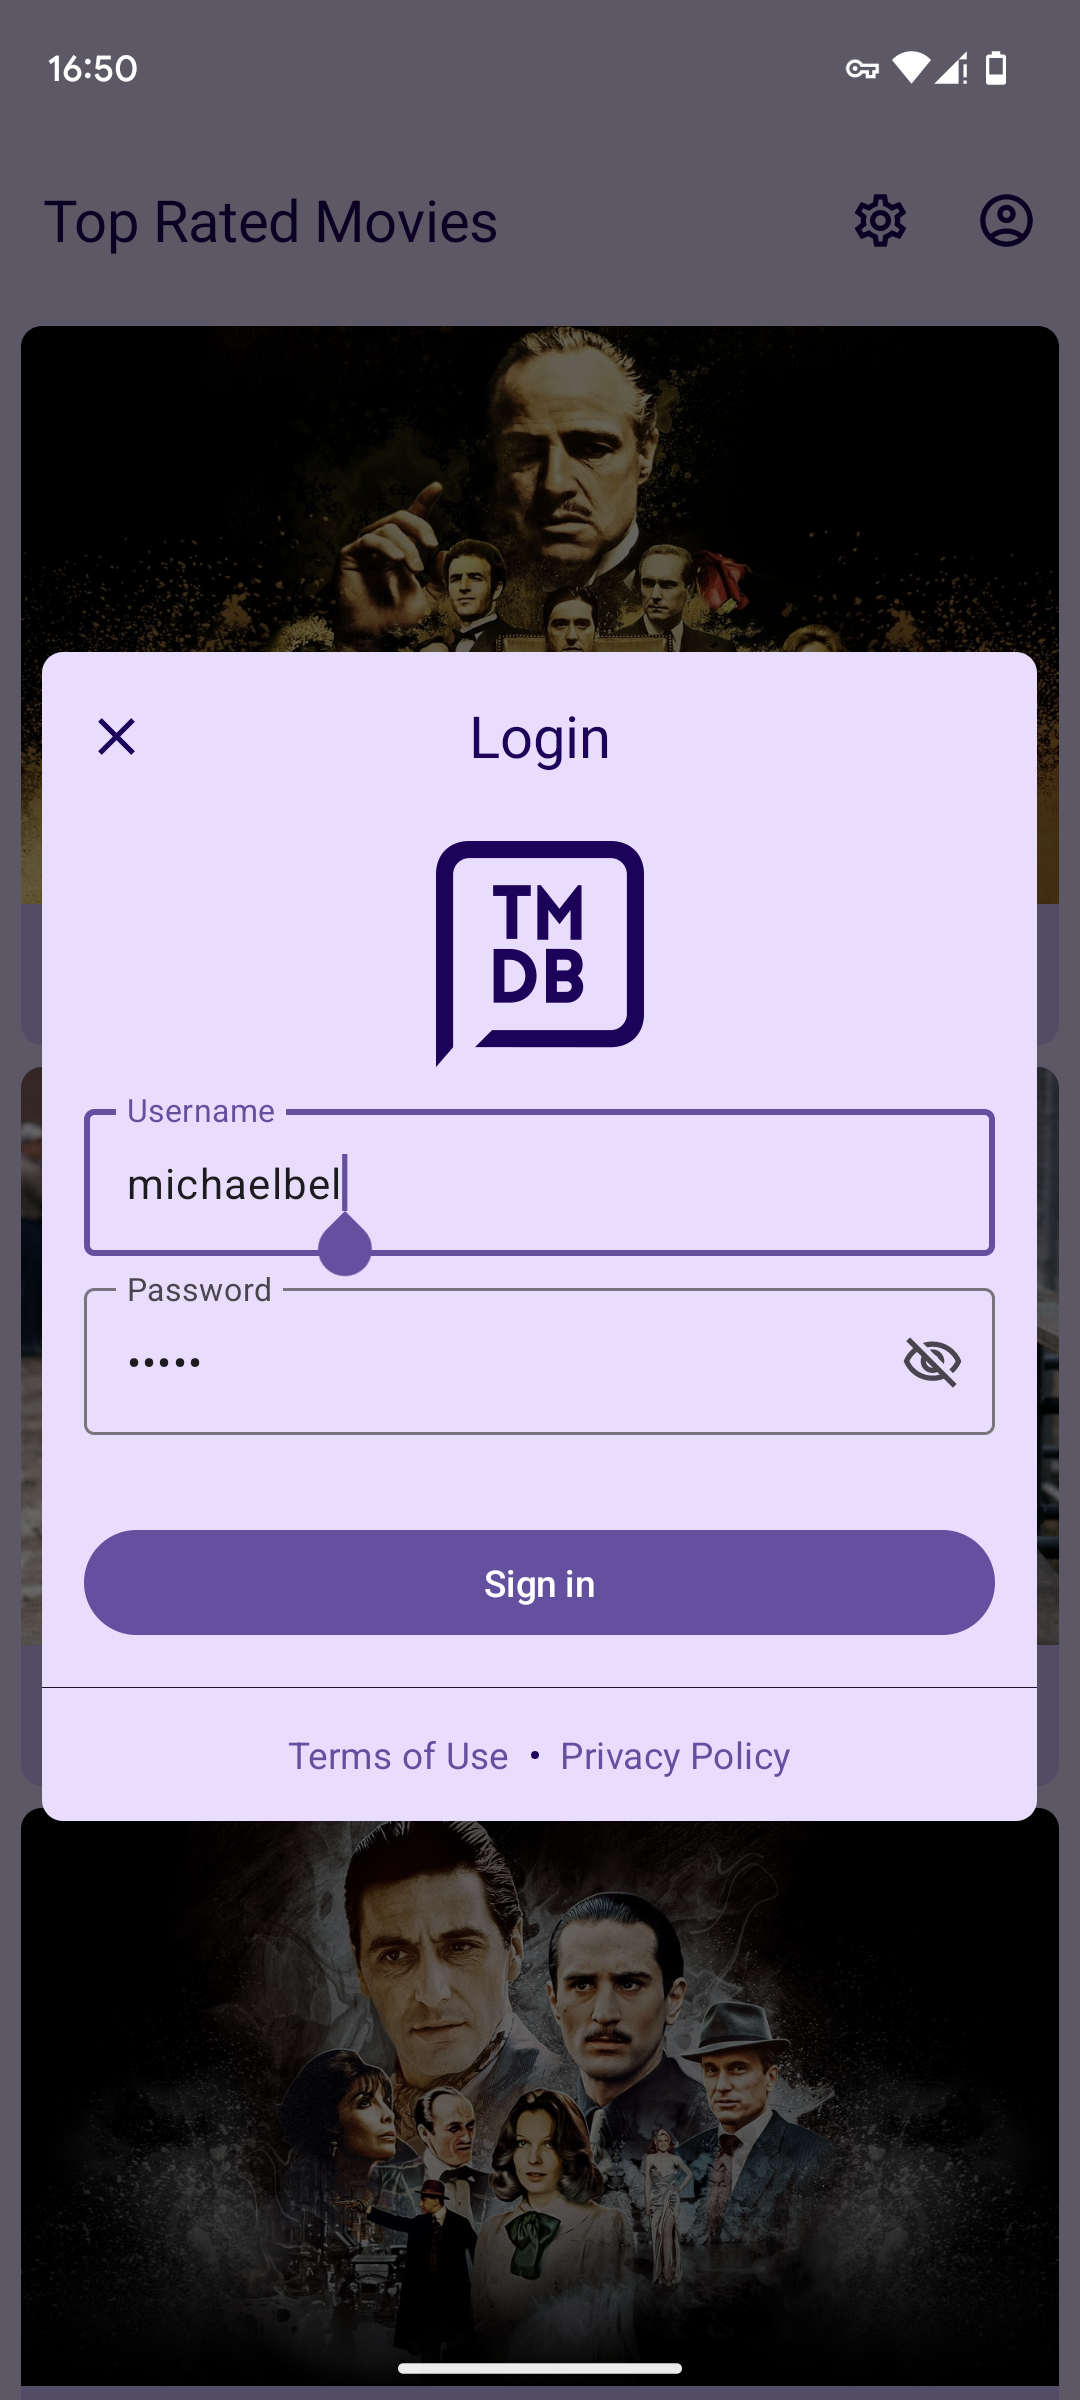
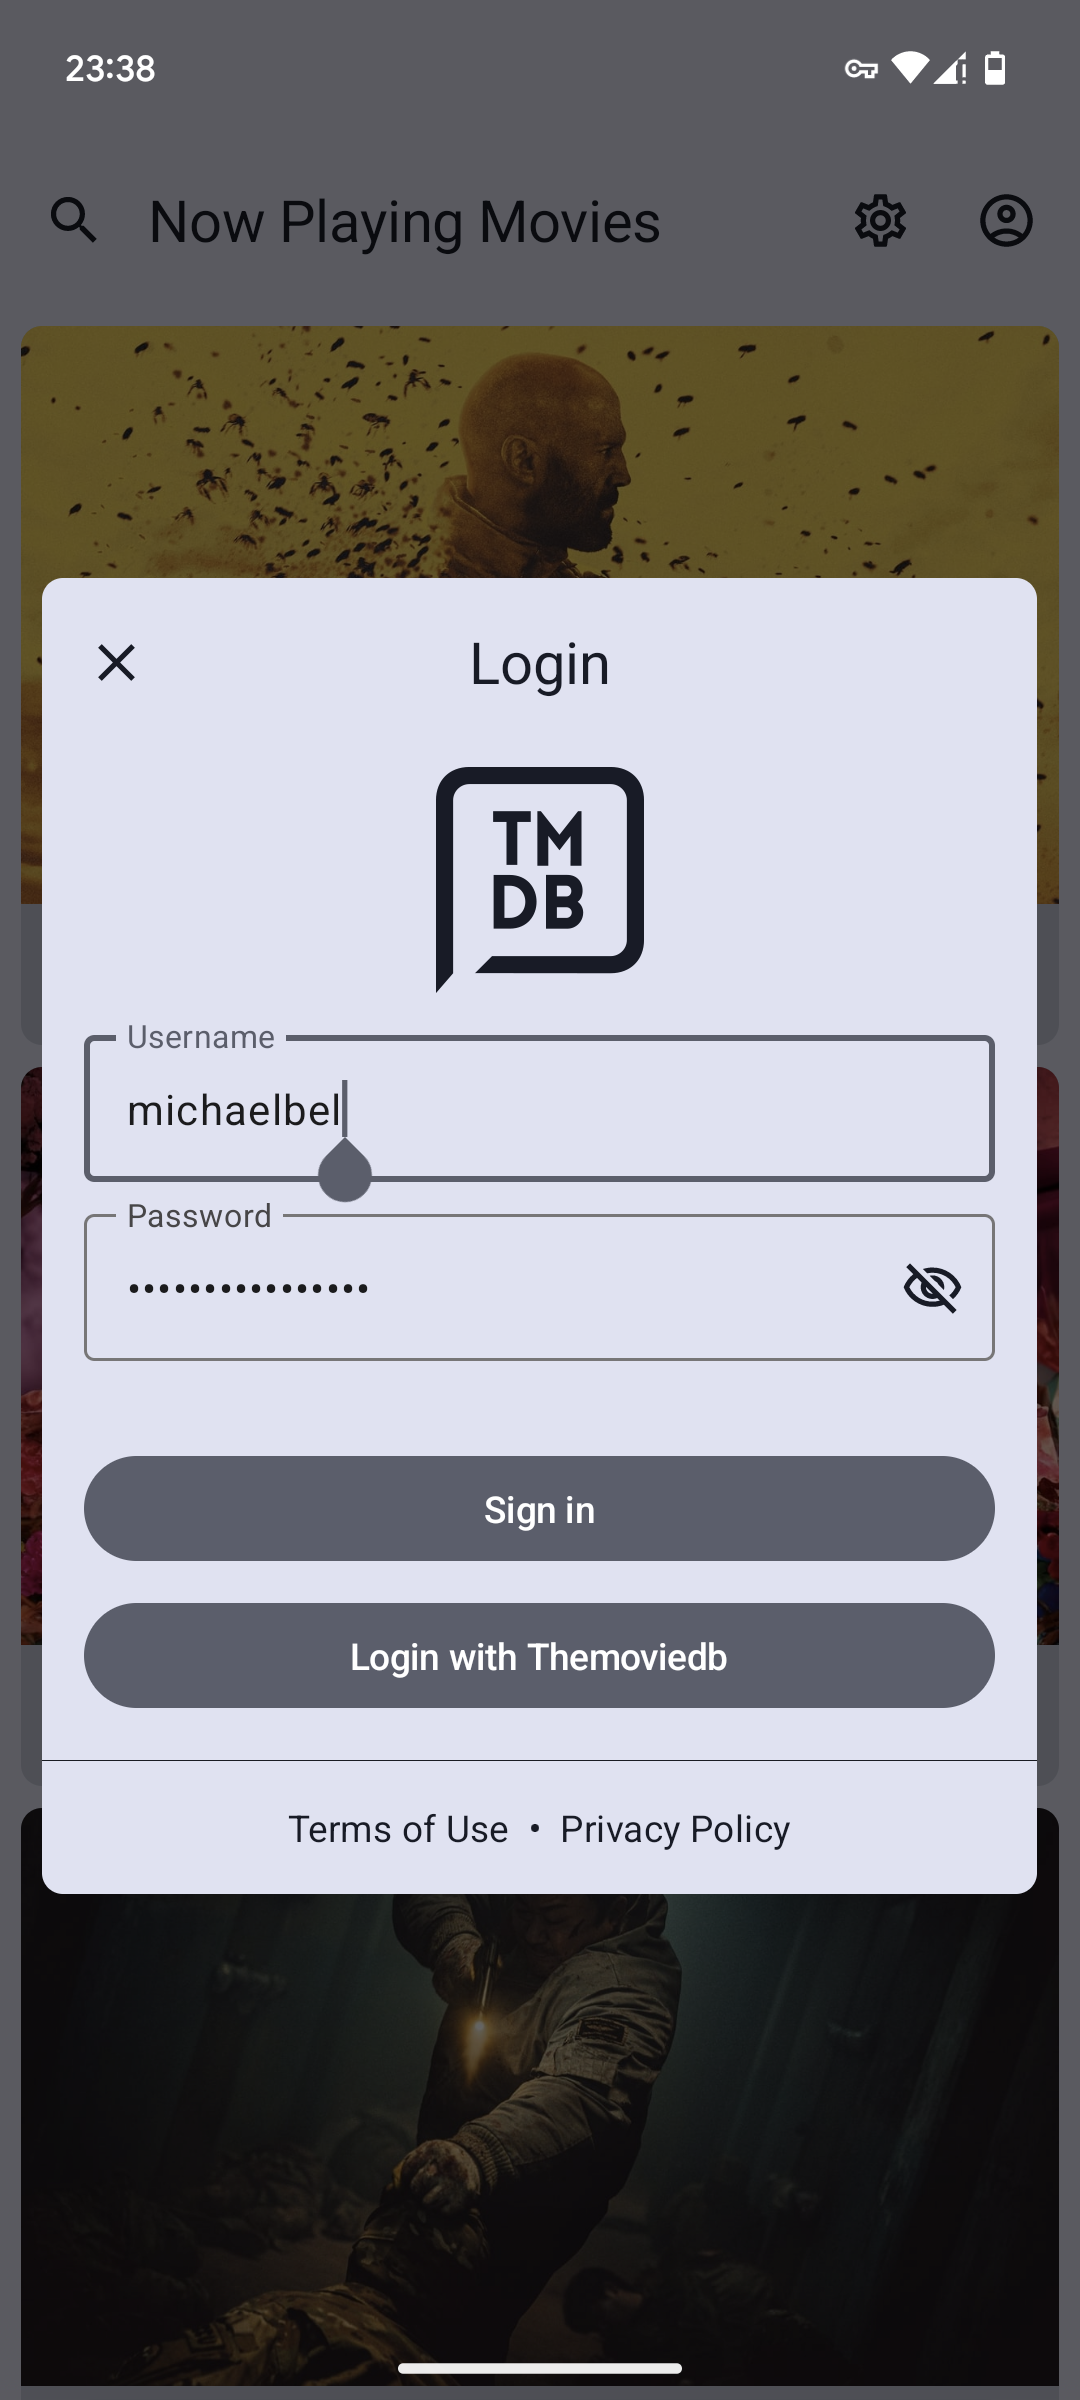
Update project

diff --git a/feature/auth-impl/src/main/kotlin/org/michaelbel/movies/auth/ui/AuthScreenContent.kt b/feature/auth-impl/src/main/kotlin/org/michaelbel/movies/auth/ui/AuthScreenContent.kt
@@ -47,6 +47,8 @@ import org.michaelbel.movies.auth.ktx.text
 import org.michaelbel.movies.auth_impl.R
 import org.michaelbel.movies.common.browser.openUrl
 import org.michaelbel.movies.common.exceptions.CreateSessionWithLoginException
+import org.michaelbel.movies.network.TMDB_AUTH_REDIRECT_URL
+import org.michaelbel.movies.network.TMDB_AUTH_URL
 import org.michaelbel.movies.network.TMDB_PRIVACY_POLICY
 import org.michaelbel.movies.network.TMDB_REGISTER
 import org.michaelbel.movies.network.TMDB_RESET_PASSWORD
@@ -69,11 +71,15 @@ fun AuthRoute(
 ) {
     AuthScreenContent(
         error = viewModel.error,
-        loading = viewModel.loading,
+        signInLoading = viewModel.signInLoading,
+        loginLoading = viewModel.loginLoading,
+        requestToken = viewModel.requestToken,
         onBackClick = onBackClick,
         onSignInClick = { username, password ->
             viewModel.onSignInClick(username, password, onBackClick)
         },
+        onLoginClick = viewModel::onLoginClick,
+        onResetRequestToken = viewModel::onResetRequestToken,
         modifier = modifier
     )
 }
@@ -81,9 +87,13 @@ fun AuthRoute(
 @Composable
 internal fun AuthScreenContent(
     error: Throwable?,
-    loading: Boolean,
+    signInLoading: Boolean,
+    loginLoading: Boolean,
+    requestToken: String?,
     onBackClick: () -> Unit,
     onSignInClick: (String, String) -> Unit,
+    onLoginClick: () -> Unit,
+    onResetRequestToken: () -> Unit,
     modifier: Modifier = Modifier
 ) {
     val resultContract = rememberLauncherForActivityResult(
@@ -97,6 +107,12 @@ internal fun AuthScreenContent(
     var username by rememberSaveable { mutableStateOf("") }
     var password by rememberSaveable { mutableStateOf("") }
     var passwordVisible by rememberSaveable { mutableStateOf(false) }
+
+    if (requestToken != null) {
+        val signUrl = String.format(TMDB_AUTH_URL, requestToken, TMDB_AUTH_REDIRECT_URL)
+        openUrl(resultContract, toolbarColor, signUrl)
+        onResetRequestToken()
+    }
 
     ConstraintLayout(
         modifier
@@ -116,7 +132,6 @@ internal fun AuthScreenContent(
             resetPasswordButton,
             signUpButton,
             signInButton,
-            divider,
             loginButton,
             linksBox
         ) = createRefs()
@@ -279,13 +294,13 @@ internal fun AuthScreenContent(
                 top.linkTo(if (error != null && error is CreateSessionWithLoginException) resetPasswordButton.bottom else passwordField.bottom, 16.dp)
                 end.linkTo(parent.end, 16.dp)
             },
-            enabled = username.isNotEmpty() && password.isNotEmpty() && !loading,
+            enabled = username.isNotEmpty() && password.isNotEmpty() && !signInLoading,
             colors = ButtonDefaults.buttonColors(
                 containerColor = MaterialTheme.colorScheme.surfaceTint
             ),
             contentPadding = PaddingValues(horizontal = 24.dp)
         ) {
-            if (loading) {
+            if (signInLoading) {
                 CircularProgressIndicator(
                     modifier = Modifier.size(24.dp),
                     strokeWidth = 2.dp
@@ -297,42 +312,32 @@ internal fun AuthScreenContent(
             }
         }
 
-        /*Text(
-            text = "Or",
-            modifier = Modifier
-                .constrainAs(divider) {
-                    width = Dimension.wrapContent
-                    height = Dimension.wrapContent
-                    start.linkTo(parent.start, 16.dp)
-                    top.linkTo(signInButton.bottom, 8.dp)
-                    end.linkTo(parent.end, 16.dp)
-                },
-            color = MaterialTheme.colorScheme.primary,
-            fontSize = 14.sp,
-            fontStyle = FontStyle.Normal,
-            fontWeight = FontWeight.W400
-        )*/
-
-        /*Button(
-            onClick = {},
-            modifier = Modifier
-                .constrainAs(loginButton) {
-                    width = Dimension.fillToConstraints
-                    height = Dimension.wrapContent
-                    start.linkTo(parent.start, 16.dp)
-                    top.linkTo(divider.bottom, 8.dp)
-                    end.linkTo(parent.end, 16.dp)
-                },
-            enabled = true,
-            contentPadding = PaddingValues(
-                horizontal = 24.dp,
-                vertical = 0.dp
-            )
+        Button(
+            onClick = onLoginClick,
+            modifier = Modifier.constrainAs(loginButton) {
+                width = Dimension.fillToConstraints
+                height = Dimension.wrapContent
+                start.linkTo(parent.start, 16.dp)
+                top.linkTo(signInButton.bottom, 8.dp)
+                end.linkTo(parent.end, 16.dp)
+            },
+            enabled = !loginLoading,
+            colors = ButtonDefaults.buttonColors(
+                containerColor = MaterialTheme.colorScheme.surfaceTint
+            ),
+            contentPadding = PaddingValues(horizontal = 24.dp)
         ) {
-            Text(
-                text = stringResource(R.string.auth_login).uppercase(),
-            )
-        }*/
+            if (loginLoading) {
+                CircularProgressIndicator(
+                    modifier = Modifier.size(24.dp),
+                    strokeWidth = 2.dp
+                )
+            } else {
+                Text(
+                    text = stringResource(R.string.auth_login)
+                )
+            }
+        }
 
         AuthLinksBox(
             onTermsOfUseClick = { openUrl(resultContract, toolbarColor, TMDB_TERMS_OF_USE) },
@@ -341,7 +346,7 @@ internal fun AuthScreenContent(
                 width = Dimension.fillToConstraints
                 height = Dimension.wrapContent
                 start.linkTo(parent.start)
-                top.linkTo(signInButton.bottom, 16.dp)
+                top.linkTo(loginButton.bottom, 16.dp)
                 end.linkTo(parent.end)
             }
         )
@@ -354,9 +359,13 @@ private fun AuthScreenContentPreview() {
     MoviesTheme {
         AuthScreenContent(
             error = null,
-            loading = false,
+            signInLoading = false,
+            loginLoading = false,
+            requestToken = null,
             onBackClick = {},
             onSignInClick = { _,_ -> },
+            onLoginClick = {},
+            onResetRequestToken = {},
             modifier = Modifier.background(MaterialTheme.colorScheme.primaryContainer)
         )
     }
@@ -368,9 +377,13 @@ private fun AuthScreenContentAmoledPreview() {
     AmoledTheme {
         AuthScreenContent(
             error = null,
-            loading = false,
+            signInLoading = false,
+            loginLoading = false,
+            requestToken = null,
             onBackClick = {},
             onSignInClick = { _,_ -> },
+            onLoginClick = {},
+            onResetRequestToken = {},
             modifier = Modifier.background(MaterialTheme.colorScheme.primaryContainer)
         )
     }

diff --git a/feature/auth-impl/src/main/kotlin/org/michaelbel/movies/auth/AuthViewModel.kt b/feature/auth-impl/src/main/kotlin/org/michaelbel/movies/auth/AuthViewModel.kt
@@ -4,6 +4,7 @@ import androidx.compose.runtime.getValue
 import androidx.compose.runtime.mutableStateOf
 import androidx.compose.runtime.setValue
 import dagger.hilt.android.lifecycle.HiltViewModel
+import javax.inject.Inject
 import kotlinx.coroutines.launch
 import org.michaelbel.movies.common.exceptions.AccountDetailsException
 import org.michaelbel.movies.common.exceptions.CreateRequestTokenException
@@ -11,19 +12,19 @@ import org.michaelbel.movies.common.exceptions.CreateSessionException
 import org.michaelbel.movies.common.exceptions.CreateSessionWithLoginException
 import org.michaelbel.movies.common.viewmodel.BaseViewModel
 import org.michaelbel.movies.interactor.Interactor
-import org.michaelbel.movies.network.model.Token
-import javax.inject.Inject
 
 @HiltViewModel
 class AuthViewModel @Inject constructor(
     private val interactor: Interactor
 ): BaseViewModel() {
 
-    var loading: Boolean by mutableStateOf(false)
+    var signInLoading: Boolean by mutableStateOf(false)
+    var loginLoading: Boolean by mutableStateOf(false)
     var error: Throwable? by mutableStateOf(null)
+    var requestToken: String? by mutableStateOf(null)
 
     override fun handleError(throwable: Throwable) {
-        loading = false
+        signInLoading = false
 
         when (throwable) {
             is CreateRequestTokenException -> {
@@ -44,17 +45,24 @@ class AuthViewModel @Inject constructor(
 
     fun onSignInClick(username: String, password: String, onResult: () -> Unit) = launch {
         error = null
-        loading = true
-
-        val token: Token = interactor.createRequestToken()
-        val sessionToken: Token = interactor.createSessionWithLogin(
-            username,
-            password,
-            token.requestToken
-        )
-        interactor.createSession(sessionToken.requestToken)
-        interactor.accountDetails()
-
+        signInLoading = true
+        val token = interactor.createRequestToken()
+        val sessionToken = interactor.createSessionWithLogin(username, password, token.requestToken)
+        interactor.run {
+            createSession(sessionToken.requestToken)
+            accountDetails()
+        }
         onResult()
+    }
+
+    fun onLoginClick() = launch {
+        error = null
+        loginLoading = true
+        requestToken = interactor.createRequestToken().requestToken
+    }
+
+    fun onResetRequestToken() {
+        loginLoading = false
+        requestToken = null
     }
 }

diff --git a/core/network/src/main/kotlin/org/michaelbel/movies/network/TmdbConfig.kt b/core/network/src/main/kotlin/org/michaelbel/movies/network/TmdbConfig.kt
@@ -1,11 +1,13 @@
 package org.michaelbel.movies.network
 
 const val TMDB_URL = "https://themoviedb.org"
-const val TMDB_TERMS_OF_USE = "https://themoviedb.org/documentation/website/terms-of-use"
-const val TMDB_PRIVACY_POLICY = "https://themoviedb.org/privacy-policy"
-const val TMDB_REGISTER = "https://themoviedb.org/signup"
-const val TMDB_RESET_PASSWORD = "https://themoviedb.org/reset-password"
-const val TMDB_MOVIE_URL = "https://themoviedb.org/movie/%d"
+const val TMDB_TERMS_OF_USE = "$TMDB_URL/documentation/website/terms-of-use"
+const val TMDB_PRIVACY_POLICY = "$TMDB_URL/privacy-policy"
+const val TMDB_REGISTER = "$TMDB_URL/signup"
+const val TMDB_RESET_PASSWORD = "$TMDB_URL/reset-password"
+const val TMDB_MOVIE_URL = "$TMDB_URL/movie/%d"
+const val TMDB_AUTH_URL = "$TMDB_URL/authenticate/%s?redirect_to=%s"
+const val TMDB_AUTH_REDIRECT_URL = "movies://redirect_url"
 
 private val tmdbApiKey: String
     get() = BuildConfig.TMDB_API_KEY
